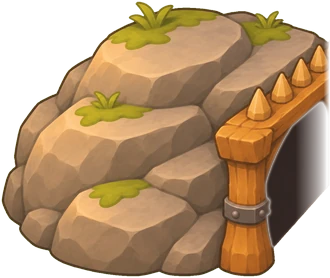
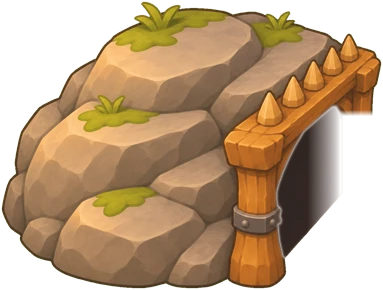
map: castle gate with its arch at the road end, cave lintel stays in front, greener tufts, texel scale from source px
- castle-w re-generated (arch is the left-most part, nothing hides the road) at 3.2 road widths
- cave fronts keep the lintel / rock above the opening past the exit line (walkers step out
  under it); only the far door post below it is left behind the walker
- caves 2.5 road widths, grass decals tinted toward the meadow greens
- MapView.texelScale / variant upgrade use source.pixelWidth (Pixi reads @1.5x as a resolution)
- qa/mapq.mjs: castle shots at 2x speed

diff --git a/src/render2d/main2d.ts b/src/render2d/main2d.ts
@@ -230,7 +230,7 @@ function upgradeMap(art: LoadedArt, map: MapView, need: number, mips: boolean): 
   if (mapUpgrade || map.texelScale * VARIANT_SLACK >= need) return;
   mapUpgrade = loadMapVariant(art.manifest, art.baseUrl, map.layout.image, { need, mips })
     .then((res) => {
-      if (res && res.texture.width > map.texelScale * map.imageW) map.setTexture(res.texture);
+      if (res && res.texture.source.pixelWidth > map.texelScale * map.imageW) map.setTexture(res.texture);
     })
     .finally(() => {
       mapUpgrade = null;

diff --git a/src/render2d/mapView.ts b/src/render2d/mapView.ts
@@ -37,7 +37,8 @@ export class MapView {
 
   /** Texels per layout px of the current map texture (resolution variant, see mapVariant.ts). */
   get texelScale(): number {
-    return this.texture.width / this.imageW;
+    // source px, not texture units: Pixi reads `@1.5x` in a file name as a resolution suffix
+    return this.texture.source.pixelWidth / this.imageW;
   }
 
   /** Swaps in another bake of the same map (e.g. a bigger variant after the window grew). */

diff --git a/tools/map-compose/gates.py b/tools/map-compose/gates.py
@@ -110,7 +110,10 @@ def measure_mouth(im: Image.Image, facing: str, dark=58):
     else:
         ax = float(np.mean(xs))
         ay = float(np.mean(ys))
-    return {'mask': mask, 'exit': exit_p, 'depth': exit_p - lo, 'anchor': (ax, ay), 'bbox': mask.getbbox()}
+    # top of the opening at the exit (E/W): the lintel above it spans the walker's head as it steps out
+    top_exit = float(np.percentile(ys[band], 4)) if facing in ('E', 'W') else None
+    return {'mask': mask, 'exit': exit_p, 'depth': exit_p - lo, 'anchor': (ax, ay), 'bbox': mask.getbbox(),
+            'top_exit': top_exit}
 
 
 def place_gate(im_src: Image.Image, flip: bool, point, facing, height_layout, inset_layout):
@@ -172,6 +175,12 @@ def cut_front(canvas: Image.Image, g, S: float, exit_cut=True, shade_max=0.93, f
     # keep the inner side of the exit line (soft over ~3 output px)
     soft = 3.0 / k
     keep = np.clip((exit_p + soft - proj) / (2 * soft), 0, 1) if exit_cut else np.ones_like(proj)
+    te = g['mouth'].get('top_exit')
+    if exit_cut and te is not None:
+        # the lintel / rock above the opening stays in front beyond the exit line too (a walker
+        # stepping out passes under it); only the door post below it stands behind the walker
+        above = np.clip((te - yy / k) / (2 * soft) + 0.5, 0, 1)
+        keep = np.maximum(keep, above)
     a = np.asarray(alpha).astype(np.float32) / 255
     mo = np.asarray(mouth).astype(np.float32) / 255
     rock = a * (1 - mo) * keep

diff --git a/tools/map-compose/compose.py b/tools/map-compose/compose.py
@@ -5,7 +5,7 @@ with generated build plots.
 usage: /usr/bin/python3 tools/map-compose/compose.py <layout.json> <assets_dir> <out.png|.webp>
          [--w 3072] [--plots 24] [--seed 7] [--bake] [--keep-plots]
          [--towers archer:3,cannon:9,...] [--enemies] [--cliff]
-         [--variants 1,1.5] [--write-layout] [--cave-h 2.4] [--castle-h 2.9] [--gate-inset 0.5]
+         [--variants 1,1.5] [--write-layout] [--cave-h 2.5] [--castle-h 3.2] [--gate-inset 0.5]
          [--windmill x,ybottom,h] [--decals 240] [--no-decals]
 
   shipped L1c bake (2x layout px master + 1x / 1.5x variants, gate fronts, gates written to the JSON):
@@ -196,7 +196,7 @@ def sprite_rect(im, x_center, y_bottom, height):
 # Gates (gates.py): a raider cave at every entrance whose mouth faces along the road's first
 # segment, the castle gate at the goal facing back along the last segment. The path end sits
 # GATE_INSET road widths inside the dark mouth, so walkers appear out of the darkness (front layer).
-CAVE_H, CASTLE_H, GATE_INSET = opt('--cave-h', 2.4), opt('--castle-h', 2.9), opt('--gate-inset', 0.5)
+CAVE_H, CASTLE_H, GATE_INSET = opt('--cave-h', 2.5), opt('--castle-h', 3.2), opt('--gate-inset', 0.5)
 GATES = []  # dict(role, lane, id, prop, facing, g = placement)
 for _i, _e in enumerate(L['entrances']):
     _f = entrance_facing(raw_paths[_i])

diff --git a/tools/map-compose/ground.py b/tools/map-compose/ground.py
@@ -92,6 +92,11 @@ class Decals:
             im = im.resize((max(1, round(im.width * s)), max(1, round(height_px))), Image.LANCZOS)
             if flip:
                 im = im.transpose(Image.FLIP_LEFT_RIGHT)
+            if k in TUFTS or k in CLOVER:
+                # the painted tufts are a touch yellow against the meadow: pull them toward its greens
+                r, g, b, a = im.split()
+                im = Image.merge('RGBA', (r.point(lambda v: int(v * 0.80)), g.point(lambda v: int(v * 0.90)),
+                                          b.point(lambda v: int(v * 0.78)), a))
             self.cache[key] = im
         return self.cache[key]
 

diff --git a/design/art-2d/v2/caves/brief-castle-w3.md b/design/art-2d/v2/caves/brief-castle-w3.md
@@ -1,0 +1,7 @@
+You are producing a GAME-READY landmark sprite for "Skyhold Isles", an ORIGINAL 2D hand-painted tower defense. The attached image (castle-w2) is the approved castle gatehouse design, colours, line weight, painterly shading, light from the top-left and high 3/4 camera: keep all of that.
+
+Problem with castle-w2: on the map the road arrives from the LEFT (coming slightly down from the upper-left) and has to run straight into the dark gate arch, but in castle-w2 a round tower stands to the LEFT of the arch and hides the road.
+
+Use your image generation tool. Save into raw/ with the exact file name, then verify the file exists and print its pixel size.
+
+raw/castle-w.png — 1536x1024, FLAT PURE MAGENTA background (#FF00FF, no gradient, no ground, no grass, no road, no cast shadow on the background, no magenta inside the subject). The SAME gatehouse, turned the same way (gate wall facing left and a little toward the viewer, seen at an angle), but the GATE ARCH IS THE LEFT-MOST PART OF THE BUILDING: the arch (big, round-topped, doors swung open inward, the passage a deep very dark near-black shadow, its bottom edge right on the ground line) sits at the left end of the gate wall, framed only by a narrow stone jamb on its left; NOTHING stands to the left of or in front of the arch (no tower, no wall). Both round crenellated towers and the banners are to the RIGHT of the arch and behind it, the rest of the castle recedes to the right and back. A road coming from the left edge of the picture would run straight into the dark arch with nothing in the way. About 1.5 : 1 wide, the subject large and fully inside the frame with a small margin. No text, no characters.
